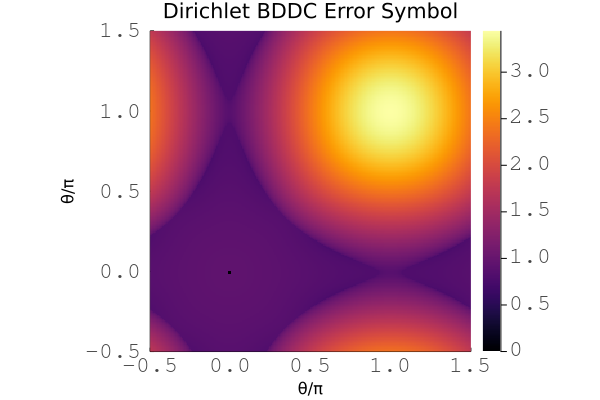
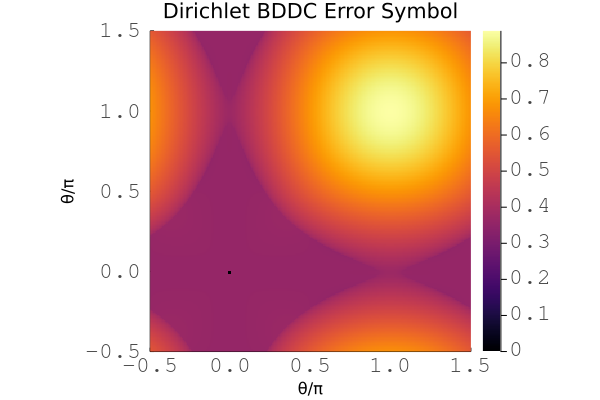
bddc - add relaxation parameter to bddc symbols

diff --git a/docs/src/public/pc/bddc.md b/docs/src/public/pc/bddc.md
@@ -38,7 +38,7 @@ $(read("../../../../examples/ex222_lumped_bddc.jl", String))
 
 ```@docs
 LumpedBDDC
-computesymbols(::BDDC, ::Array)
+computesymbols(::BDDC, ::Array, ::Array)
 ```
 
 ### Dirichlet BDDC
